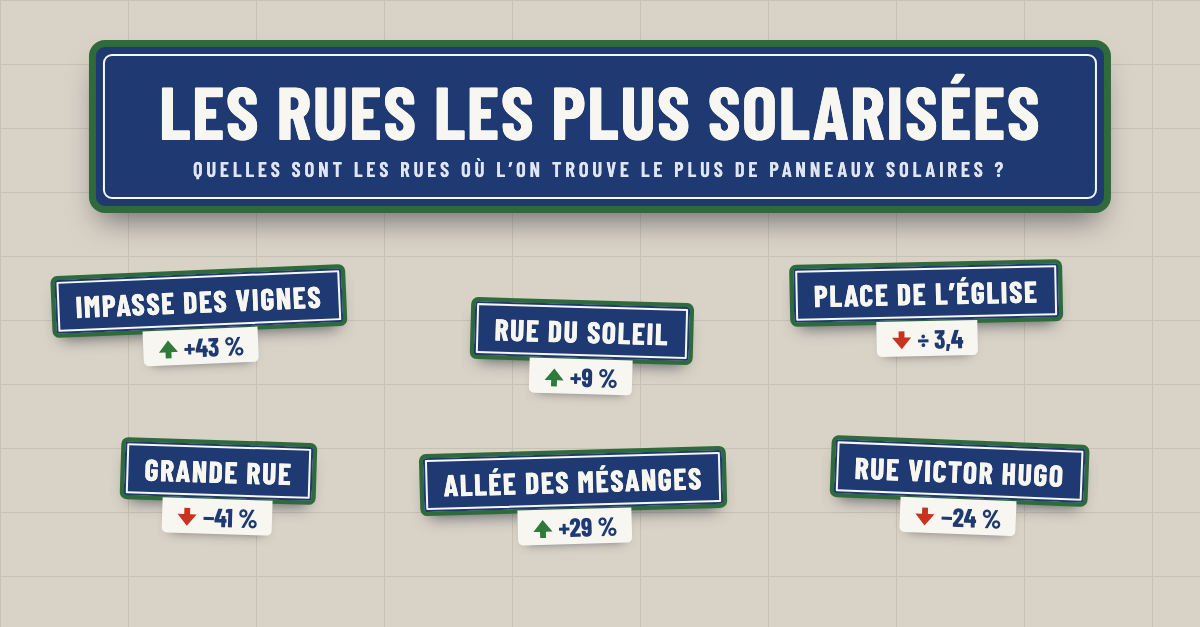
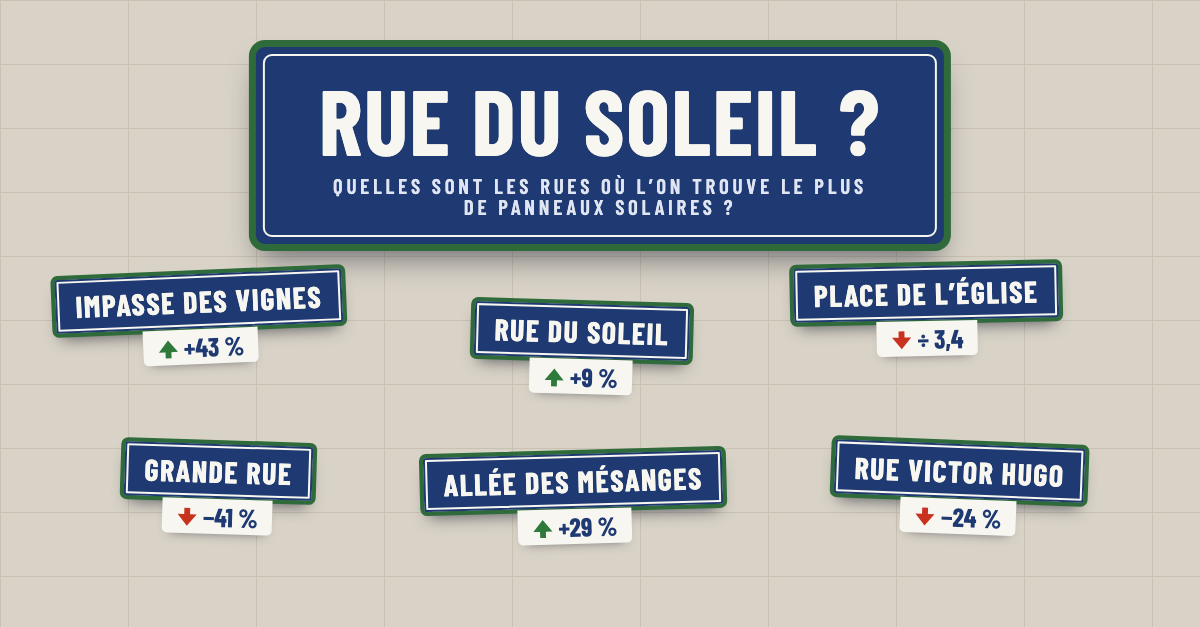
streets: rename to "Rue du Soleil ?" (Sunny Street?)
"Les rues les plus solarisées" was too close to solarise ("Le plus solarisé
de France"). New title in the page, share card, og.png and homepage card.

Changed region(s): [[0.0617, 0.0606, 0.925, 0.4545]]

diff --git a/streets/index.html b/streets/index.html
@@ -3,16 +3,16 @@
 <head>
 <meta charset="utf-8">
 <meta name="viewport" content="width=device-width,initial-scale=1,viewport-fit=cover">
-<title>Les rues les plus solarisées</title>
+<title>Rue du Soleil ?</title>
 <meta name="description" content="Rue de l’Église, Impasse des Vignes, Rue du Soleil : quelles sont les rues où l’on trouve le plus de panneaux solaires ? Toute la Base Adresse Nationale croisée avec les installations OpenPVMapper.">
 <meta name="theme-color" content="#1f3a72">
 <meta property="og:type" content="website">
-<meta property="og:title" content="Les rues les plus solarisées">
+<meta property="og:title" content="Rue du Soleil ?">
 <meta property="og:description" content="Les Places de l’Église portent 3 fois moins de panneaux solaires par adresse que le reste de leur commune, les Impasses des Vignes 43 % de plus. Et votre rue ? / Which French street names carry the most solar panels?">
 <meta property="og:url" content="https://gabrielkasmi.github.io/random-maps/streets/">
 <meta property="og:image" content="https://gabrielkasmi.github.io/random-maps/streets/og.png">
 <meta property="og:image:width" content="1200"><meta property="og:image:height" content="627">
-<meta property="og:image:alt" content="Plaques de rue émaillées bleues posées sur un mur, sous le titre « Les rues les plus solarisées » : Impasse des Vignes +43 %, Rue du Soleil +9 %, Place de l’Église 3,4 fois moins, Grande Rue −41 %, Allée des Mésanges +29 %, Rue Victor Hugo −24 %.">
+<meta property="og:image:alt" content="Plaques de rue émaillées bleues posées sur un mur, sous le titre « Rue du Soleil ? » : Impasse des Vignes +43 %, Rue du Soleil +9 %, Place de l’Église 3,4 fois moins, Grande Rue −41 %, Allée des Mésanges +29 %, Rue Victor Hugo −24 %.">
 <meta name="twitter:card" content="summary_large_image">
 <link rel="stylesheet" href="https://cdnjs.cloudflare.com/ajax/libs/leaflet/1.9.4/leaflet.css">
 <style>
@@ -326,7 +326,7 @@ a{color:var(--email);text-underline-offset:3px}
 var P=new URLSearchParams(location.search);
 var LANG=P.get('lang')==='en'?'en':'fr';
 var T={fr:{
-  title:'Les rues les plus solarisées',sub:'Quelles sont les rues où l’on trouve le plus de panneaux solaires ?',
+  title:'Rue du Soleil ?',sub:'Quelles sont les rues où l’on trouve le plus de panneaux solaires ?',
   lede:'Pour chaque nom de rue, on compare le nombre de panneaux solaires par adresse avec celui des autres rues de la même commune, puis on fait le bilan sur toute la France.',
   shuffle:'Nouveau tirage',qnl:'Un nom de rue',qn:'Rue de la Gare, Impasse des Lilas…',qvl:'Une commune',qv:'Votre commune',
   near:'En bas de chez moi',nearWait:'Recherche de votre position…',nearErr:'Position indisponible. Cherchez plutôt votre commune.',nearLoad:'Chargement des rues autour de vous…',
@@ -379,7 +379,7 @@ var T={fr:{
    +'<h3>Sources</h3><p>Adresses : Base Adresse Nationale (Licence Ouverte 2.0). Installations : OpenPVMapper — DeepPVMapper, Gabriel Kasmi (CC BY 4.0). Fonds : Plan IGN et photographies aériennes © IGN. Police Barlow Condensed (SIL OFL). Projet indépendant, non affilié aux producteurs de ces données.</p>',
   sunTh:['Famille','Rues','Écart','Intervalle à 95 %']
 },en:{
-  title:'France’s most solar streets',sub:'Which streets have the most solar panels?',
+  title:'Sunny Street?',sub:'Which streets have the most solar panels?',
   lede:'For each street name, we compare solar panels per address with the other streets of the same commune, then add it all up across France.',
   shuffle:'New draw',qnl:'A street name',qn:'Rue de la Gare, Impasse des Lilas…',qvl:'A town',qv:'Your town',
   near:'Right where I live',nearWait:'Finding your position…',nearErr:'Position unavailable. Search your town instead.',nearLoad:'Loading the streets around you…',

diff --git a/index.html b/index.html
@@ -139,7 +139,7 @@ html[lang="en"] [data-en]{display:revert}
       </li>
       <li class="card">
         <img src="thumbs/streets.webp" width="800" height="600" alt="" loading="lazy">
-        <h2><a href="streets/" data-map><span data-fr>Les rues les plus solarisées</span><span data-en>France’s most solar streets</span></a></h2>
+        <h2><a href="streets/" data-map><span data-fr>Rue du Soleil&nbsp;?</span><span data-en>Sunny Street?</span></a></h2>
         <p>
           <span data-fr><span class="tag">#30DayMapChallenge</span> — Rue de l’Église, Impasse des Vignes, Rue du Soleil… Quels noms de rue portent le plus de panneaux solaires par adresse&nbsp;? Toutes les rues de France, comparées aux autres rues de leur commune.</span>
           <span data-en><span class="tag">#30DayMapChallenge</span> — Rue de l’Église, Impasse des Vignes, Rue du Soleil… Which street names carry the most solar panels per address? Every street in France, compared with the other streets of its commune.</span>
